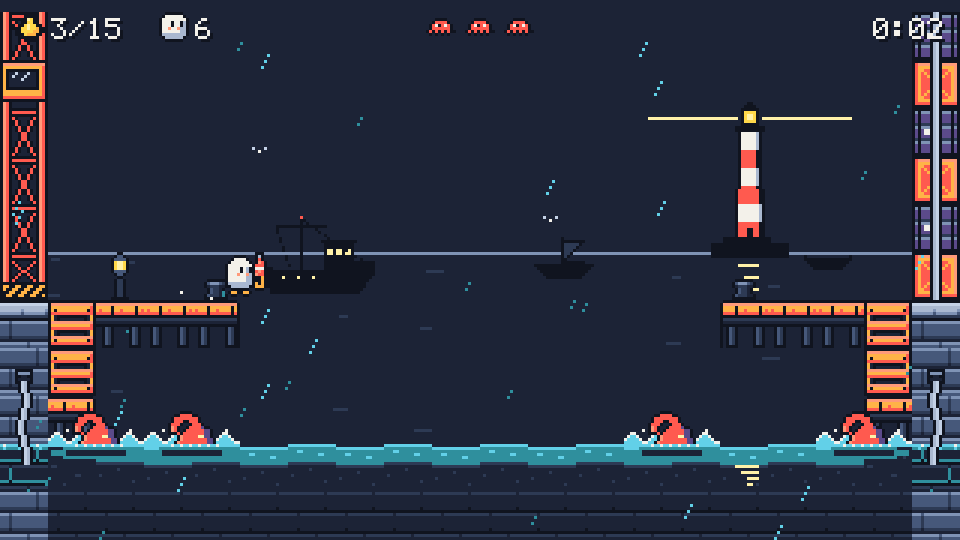
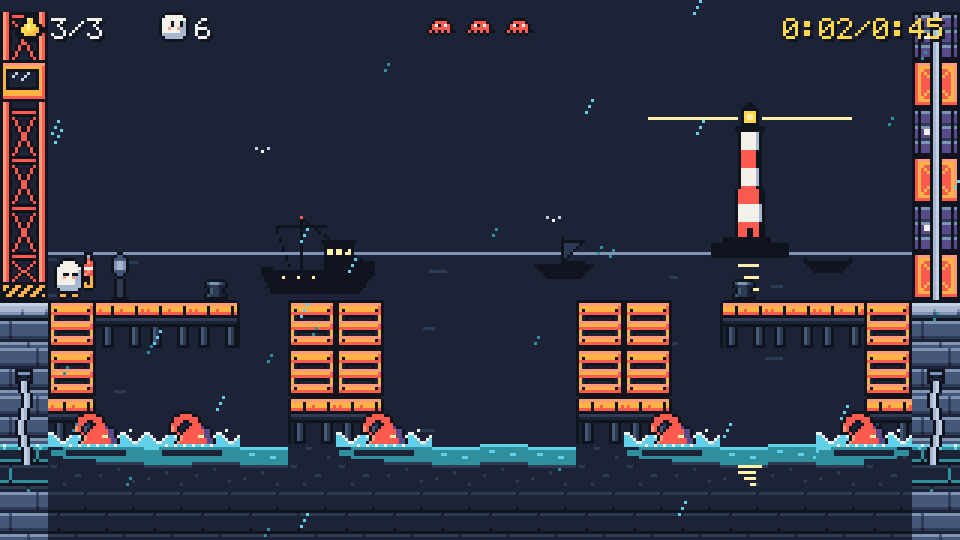
Carte 9.12e (correction d'AGA) : arène de la Pieuvre repartie de monde-2, seul le petit ponton au-dessus de la tête du milieu retiré ; salves élargies d'une colonne (rythme inchangé), Habitué 0,96 ; QA, capture

diff --git a/core/src/entities/pieuvre.rs b/core/src/entities/pieuvre.rs
@@ -23,7 +23,7 @@
 //!   et ombre sur l'eau, puis le bout du tentacule qui pointe), sans danger ; puis
 //!   il se DRESSE de toute la hauteur (30 pas, 0,5 s) : mortel ; puis il redescend
 //!   (12 pas), sans danger. Un motif par point perdu (`MOTIFS`), de plus en plus
-//!   gros et rapide : 4 colonnes sur 9 par salve, puis 6, puis 7 en VAGUE qui
+//!   gros et rapide : 5 colonnes sur 9 par salve, puis 7, puis 7 ou 8 en VAGUE qui
 //!   balaie le bassin, aller, un souffle, puis retour (carte 9.12d : plus lente
 //!   et lisible pour un humain, nettement sous l'orage à la mesure).
 //! - remous : la tête remonte (l'eau bouillonne à sa place), sans danger.
@@ -102,17 +102,25 @@ pub const PLACES_TETE: [i8; 3] = [0, -3, 3];
 /// vie et qui fait des attaques plus grosses »), mais partant de plus bas : une
 /// salve toutes les 100, 78, puis 60 pas (66, 48, 30 auparavant), annonce de
 /// 1,2 s, une salve de moins par motif, et un souffle de 140 pas entre l'aller et
-/// le retour de la vague. Part du bassin frappée par salve : 44 %, 67 %, 78 %.
+/// le retour de la vague.
+///
+/// Carte 9.12e (AGA : la Pieuvre doit rester le boss au-dessus des niveaux 1 à 4
+/// du chapitre 2 ; sans le petit ponton du milieu, l'Habitué n'y mourait plus que
+/// 0,44 fois) : des attaques PLUS LARGES, jamais plus rapides. Chaque salve des
+/// motifs 1 et 2 frappe une colonne de plus ; au motif 3, 4 salves sur 6 (la 1re
+/// et la 3e restent à 7 colonnes : à 8, l'aller de la vague n'a plus d'issue
+/// qu'un humain rejoigne à temps). Débuts des salves, annonce, frappe : inchangés.
+/// Part du bassin frappée par salve : 56 %, 78 %, 85 % (44, 67, 78 % avant).
 /// Réglés à la MESURE (`difficulte::tests::mesure_d_un_niveau_du_monde_2`,
-/// CLE=pieuvre) : l'Habitué y meurt nettement moins qu'à l'orage.
-/// - Motif 1 : 4 colonnes sur 9, une salve toutes les 100 pas : les bords, puis le
-///   milieu, puis les bords... on fait la navette sur le platelage.
-/// - Motif 2 : 6 colonnes sur 9, toutes les 78 pas : deux ou trois bandes, les
-///   trous sautent d'un côté à l'autre, d'une colonne à la fois.
-/// - Motif 3 : 7 colonnes sur 9, toutes les 60 pas : deux trous d'une colonne se
-///   rejoignent au milieu ; ce trou de 2 colonnes glisse d'une colonne par salve
-///   vers la droite (l'ALLER de la VAGUE), elle souffle, puis il revient vers la
-///   gauche (le RETOUR), et la tête sort à droite : on retraverse l'arène.
+/// CLE=pieuvre).
+/// - Motif 1 : 5 colonnes sur 9, une salve toutes les 100 pas : les bords et un
+///   peu du milieu, puis le milieu, puis les bords... on fait la navette.
+/// - Motif 2 : 7 colonnes sur 9, toutes les 78 pas : trois bandes, deux trous
+///   d'une colonne qui sautent d'un côté à l'autre, d'une colonne à la fois.
+/// - Motif 3 : 7 ou 8 colonnes sur 9, toutes les 60 pas : deux trous d'une
+///   colonne se rejoignent au milieu ; ce trou glisse vers la droite (l'ALLER de
+///   la VAGUE), elle souffle, puis il revient au milieu (le RETOUR), et la tête
+///   sort à droite : on retraverse l'arène.
 ///
 /// Toujours une issue : le test `chaque_motif_se_traverse` (le raisonnement du
 /// nuage, plus strict) vérifie qu'on peut toujours s'en sortir en courant, et
@@ -120,48 +128,48 @@ pub const PLACES_TETE: [i8; 3] = [0, -3, 3];
 /// l'annonce avant de partir.
 pub const MOTIFS: [&[Salve]; PV_PIEUVRE as usize] = [
     &[
-        // Le bord gauche et deux colonnes à droite : au milieu.
+        // Le bord gauche, et trois colonnes isolées : au milieu ou à droite.
         Salve {
             debut: 0,
-            bandes: &[(-4, -3), (2, 2), (4, 4)],
+            bandes: &[(-4, -3), (-1, -1), (2, 2), (4, 4)],
         },
-        // Le milieu : sur un bord.
+        // Le bord gauche et le milieu : à gauche ou à droite.
         Salve {
             debut: 100,
-            bandes: &[(-2, 1)],
+            bandes: &[(-4, -4), (-2, 1)],
         },
         // Les bords : au milieu.
         Salve {
             debut: 200,
-            bandes: &[(-4, -3), (3, 4)],
+            bandes: &[(-4, -2), (3, 4)],
         },
-        // Le milieu : sur un bord (la tête sort ensuite au milieu).
+        // Le milieu et le bord droit : à gauche (la tête sort ensuite au milieu).
         Salve {
             debut: 300,
-            bandes: &[(-1, 2)],
+            bandes: &[(-1, 2), (4, 4)],
         },
     ],
     &[
         Salve {
             debut: 0,
-            bandes: &[(-4, -3), (0, 1), (3, 4)],
+            bandes: &[(-4, -3), (-1, 1), (3, 4)],
         },
         Salve {
             debut: 78,
-            bandes: &[(-4, -2), (0, 2)],
+            bandes: &[(-4, -2), (0, 2), (4, 4)],
         },
         Salve {
             debut: 156,
-            bandes: &[(-4, -3), (-1, 1), (4, 4)],
+            bandes: &[(-4, -3), (-1, 2), (4, 4)],
         },
         Salve {
             debut: 234,
-            bandes: &[(-4, -2), (1, 2), (4, 4)],
+            bandes: &[(-4, -2), (0, 2), (4, 4)],
         },
         // La gauche et la droite : au milieu, puis à gauche (la tête y sort).
         Salve {
             debut: 312,
-            bandes: &[(-4, -3), (0, 1), (3, 4)],
+            bandes: &[(-4, -2), (0, 1), (3, 4)],
         },
     ],
     &[
@@ -173,7 +181,7 @@ pub const MOTIFS: [&[Salve]; PV_PIEUVRE as usize] = [
         // ... qui se rejoignent au milieu (100 pas : le temps d'y courir).
         Salve {
             debut: 100,
-            bandes: &[(-4, -2), (1, 4)],
+            bandes: &[(-4, -1), (1, 4)],
         },
         // L'aller : le trou glisse vers la droite, une colonne toutes les 60 pas...
         Salve {
@@ -182,17 +190,17 @@ pub const MOTIFS: [&[Salve]; PV_PIEUVRE as usize] = [
         },
         Salve {
             debut: 220,
-            bandes: &[(-4, 0), (3, 4)],
+            bandes: &[(-4, 0), (2, 4)],
         },
-        // ... elle souffle (140 pas), puis le retour, vers la gauche (la tête sort
+        // ... elle souffle (140 pas), puis le retour, au milieu (la tête sort
         // ensuite à droite).
         Salve {
             debut: 360,
-            bandes: &[(-4, -1), (2, 4)],
+            bandes: &[(-4, -1), (1, 4)],
         },
         Salve {
             debut: 420,
-            bandes: &[(-4, -2), (1, 4)],
+            bandes: &[(-4, -1), (1, 4)],
         },
     ],
 ];
@@ -493,10 +501,10 @@ mod tests {
     #[test]
     fn la_tete_ne_se_touche_qu_en_lui_tombant_dessus() {
         let mut p = pieuvre();
-        // Prélude, puis le 1er motif : sa 1re salve frappe le bord gauche et deux
-        // colonnes à droite, dont la colonne 2 (corps de x = 212 à 236), annoncée 72
+        // Prélude, puis le 1er motif : sa 1re salve frappe le bord gauche et trois
+        // colonnes isolées, dont la colonne 2 (corps de x = 212 à 236), annoncée 72
         // pas (sans danger), dressée 30 (mortelle), puis elle redescend. La colonne
-        // -1 (x = 116 à 140) est libre.
+        // 0 (x = 148 à 172) est libre.
         let sur_la_colonne = Aabb::new(218.0, 114.0, 10.0, 14.0);
         pas(&mut p, PRELUDE_PAS as u32);
         assert_eq!(p.phase(), PhasePieuvre::Colere);
@@ -505,7 +513,7 @@ mod tests {
         pas(&mut p, ANNONCE_PAS as u32);
         assert_eq!(p.etat_tentacule(6), EtatTentacule::Dresse);
         assert!(p.blesse(&sur_la_colonne));
-        assert!(!p.blesse(&Aabb::new(122.0, 114.0, 10.0, 14.0)));
+        assert!(!p.blesse(&Aabb::new(154.0, 114.0, 10.0, 14.0)));
         pas(&mut p, DRESSE_PAS as u32);
         assert!(matches!(p.etat_tentacule(6), EtatTentacule::Redescente(_)));
         assert!(!p.blesse(&sur_la_colonne));

diff --git a/core/src/levels/essai_pieuvre.rs b/core/src/levels/essai_pieuvre.rs
@@ -37,14 +37,18 @@ pub const INFOS: InfosNiveau = InfosNiveau {
 ///   de la carte : aucun coin à l'abri.
 /// - Ses têtes (48 x 32, posées sur l'eau) : au milieu (x de 136 à 184), à gauche
 ///   (40 à 88) et à droite (232 à 280).
-/// - Carte 9.12e (AGA : « enlever les petites plateformes et garder uniquement
-///   les grosses ») : seulement DEUX pontons, aux bords (ligne 6, colonnes 1 à 4
-///   et 15 à 18, sur leurs piliers aux colonnes 1 et 18). Tout le milieu est
-///   l'eau du bassin : on le traverse en barque (BAS tenu) ou en planant. Les
-///   têtes de gauche et de droite dépassent d'une demi-case au bout de leur
-///   ponton (on se laisse tomber dessus) ; celle du milieu se saute depuis la
-///   barque ou en planant. (Carte 9.12c : un platelage continu, avec trois petits
-///   pontons de 2 cases au milieu.)
+/// - Carte 9.12c (arène moins noyante) : un PLATELAGE continu (ligne 6, sur des
+///   piliers aux colonnes 1, 6-7, 12-13 et 18), percé de quatre trous d'une case
+///   (colonnes 5, 8, 11 et 14) : chaque trou est au bord d'une tête, qui y dépasse
+///   d'une demi-case. On esquive en courant, en sautant un trou d'une case ; on
+///   tombe dans un trou pour atterrir sur la tête sortie. Sous le platelage,
+///   l'eau (la barque, BAS tenu, rattrape une chute).
+/// - Carte 9.12e (AGA : « enlever les petites plateformes au-dessus des endroits
+///   où se positionnait la pieuvre ») : le petit ponton flottant des colonnes
+///   9-10, au-dessus de la tête du milieu (tuiles 8,5 à 11,5), est retiré : le
+///   trou du milieu fait 4 cases (colonnes 8 à 11). Les petits pontons sur piliers
+///   (6-7, 12-13) ne surplombent aucune tête et restent ; les têtes de gauche et
+///   de droite sont sous les grands pontons des bords, gardés.
 /// - Gouttes : en colonne sous le départ (colonne 1, lignes 1 à 3) : Pépin les
 ///   prend en tombant au début, avant la colère. Sinon chaque goutte prise ou non
 ///   multiplie les cas que la recherche du robot et la mesure de difficulté
@@ -56,9 +60,9 @@ Bo.................B
 Bo.................B
 B..................B
 B.L................B
-B####..........####B
-B#................#B
-B#................#B
+B####.##....##.####B
+B#....##....##....#B
+B#....##....##....#B
 B~~~~~~~~8~~~~~~~~~B
 BBBBBBBBBBBBBBBBBBBB
 ";

diff --git a/core/src/levels/pieuvre.rs b/core/src/levels/pieuvre.rs
@@ -6,11 +6,11 @@
 //! Le combat (voir `entities::pieuvre`) :
 //! 1. la pieuvre est calme (prélude), puis frappe par COLONNES de tentacules
 //!    (remous et ombre, annonce, puis le bout qui se dresse, mortel, puis
-//!    redescend) : on quitte la colonne annoncée en courant sur un des deux
-//!    pontons des bords, en barque ou en planant au-dessus de l'eau du milieu
-//!    (carte 9.12e) ;
+//!    redescend) : on quitte la colonne annoncée en courant sur le platelage
+//!    (carte 9.12c), en sautant ses trous d'une case ;
 //! 2. après chaque série, elle sort la TÊTE sur l'eau (au milieu, puis à
-//!    gauche, puis à droite) : on lui tombe dessus (un point) ;
+//!    gauche, puis à droite) : on tombe dans le trou qui la borde, sur elle (un
+//!    point) ;
 //! 3. trois motifs de plus en plus rapides, trois coups, elle replonge et
 //!    lâche la clé : le niveau est fini.
 //!
@@ -53,10 +53,10 @@ pub const INFOS: InfosNiveau = InfosNiveau {
 
 /// 20 x 11 tuiles (un seul écran), thème Port. Géométrie du niveau d'essai
 /// « pieuvre » : bassin de toute l'arène, la pieuvre `8` (ses 9 colonnes de
-/// tentacules de 2 cases couvrent tout le bassin, aucun coin à l'abri), les deux
-/// grands pontons des bords seulement (carte 9.12e : le milieu est de l'eau, en
-/// barque ou en planant), les trois gouttes sous le départ (prises en tombant) et
-/// la lanterne.
+/// tentacules de 2 cases couvrent tout le bassin, aucun coin à l'abri), le
+/// platelage percé d'un trou au bord de chaque tête (carte 9.12c ; carte 9.12e :
+/// plus de petit ponton au-dessus de la tête du milieu), les trois gouttes sous le
+/// départ (prises en tombant) et la lanterne.
 const ASCII: &str = r"
 B@.................B
 Bo.................B
@@ -64,9 +64,9 @@ Bo.................B
 Bo.................B
 B..................B
 B.L................B
-B####..........####B
-B#................#B
-B#................#B
+B####.##....##.####B
+B#....##....##....#B
+B#....##....##....#B
 B~~~~~~~~8~~~~~~~~~B
 BBBBBBBBBBBBBBBBBBBB
 ";

diff --git a/QA.md b/QA.md
@@ -6915,6 +6915,6 @@ jeu, pour débloquer une fin différente. »
 - Preuves : `test -p game --no-default-features -- scene sprites decor` 128 ok (dont 2 nouveaux : `la_gouttiere_est_accrochee_a_sa_maison`, `la_gouttiere_et_sa_maison_sont_du_fond_terne`) ; `lint` LINT-OK ; `lourd.sh ./build.sh --qa` ok. Captures (Chromium 1208, script `ecrire_script_monde_2_96` régénéré : 0 mort) `920h-{avant,apres,lisibilite}-{depart,voiture,bas}` = les 3 gouttières, du toit au caniveau ; touche O : aucun or sur pan ni tuyau ; 0 hors palette, 0 flou, 0 erreur ; regardées.
 - PAS testé : joueur humain, téléphone, Safari. Le pan est dans le niveau (pas en parallaxe) : il glisse devant les maisons du fond.
 
-## Carte 9.12e : arène de la Pieuvre, seulement les deux grands pontons (AGA : « enlever les petites plateformes »)
-- Fait : `levels/pieuvre.rs` et `essai_pieuvre.rs` (même grille, le test l'exige), ligne 6 `B####..........####B` : les 3 petits pontons de 2 cases et leurs piliers retirés, le milieu est de l'eau (barque ou plané). Têtes, motifs, PV, rythme : rien de changé. Rendu : pontons par tuile (`tuiles_theme.rs`), aucun dessiné hors grille.
-- Preuves : core `pieuvre` 5 ok, `monde_2_niveau_5_faisable` ok ; robot `le_robot_bat_la_pieuvre_sans_mourir` ok (0 mort, 1 881 images) ; lint LINT-OK ; `./build.sh --qa` ok ; capture `docs/qa/912e-arene.png` (`capture-96.mjs -`, 0 hors palette, 0 flou, 0 erreur, regardée). Mesure CLE=pieuvre, morts Débutant / Habitué / Expert : 1,58 / 0,40 / 0,15 (avant 1,60 / 0,54 / 0,42) : Habitué SOUS la cible 0,8-1,0 ; durcir sans toucher au rythme (salves plus larges ou 4e PV) n'est pas dans la carte : décision demandée à AGA. PAS testé : joueur humain, téléphone, Safari.
+## Carte 9.12e : arène de la Pieuvre, plus de petit ponton au-dessus d'une tête (AGA : « enlever les petites plateformes au dessus des endroit où se positionnait la pieuvre »)
+- Fait : `levels/pieuvre.rs` et `essai_pieuvre.rs` (même grille, le test l'exige), repartis de monde-2, ligne 6 `B####.##....##.####B` : seul le ponton flottant 9-10 (au-dessus de la tête du milieu, tuiles 8,5 à 11,5) est retiré ; pontons sur piliers 6-7 et 12-13 et les deux grands gardés (têtes gauche/droite sous les grands). Mesure 1 : Habitué 0,44, donc salves ÉLARGIES (`entities/pieuvre.rs`, `MOTIFS`) : +1 colonne par salve aux motifs 1 et 2, 4 salves sur 6 au motif 3 (à 8 colonnes, l'aller de la vague n'a plus d'issue à temps) ; part frappée 56/78/85 % (44/67/78) ; débuts, annonce, frappe, PV inchangés.
+- Preuves : core `pieuvre` 5 ok (colonne libre du test des règles : 0 au lieu de -1), `monde_2_niveau_5_faisable` ok ; mesure CLE=pieuvre, morts Débutant / Habitué / Expert : 1,21 / 0,44 / 0,04 après la grille, puis 3,35 / 0,96 / 0,46 avec les salves (cible Habitué 0,8-1,0, sous le cyclone 1,19) ; robot `le_robot_bat_la_pieuvre_sans_mourir` ok (1 900 images) ; lint LINT-OK ; capture `docs/qa/912e-arene.png` (vrai niveau par la carte, `capture-96.mjs -`, 0 hors palette, 0 flou, 0 erreur, regardée : pas de ponton dessiné au milieu). PAS testé : joueur humain, téléphone, Safari ; Débutant 3,35 (12/48 game over) à surveiller.
